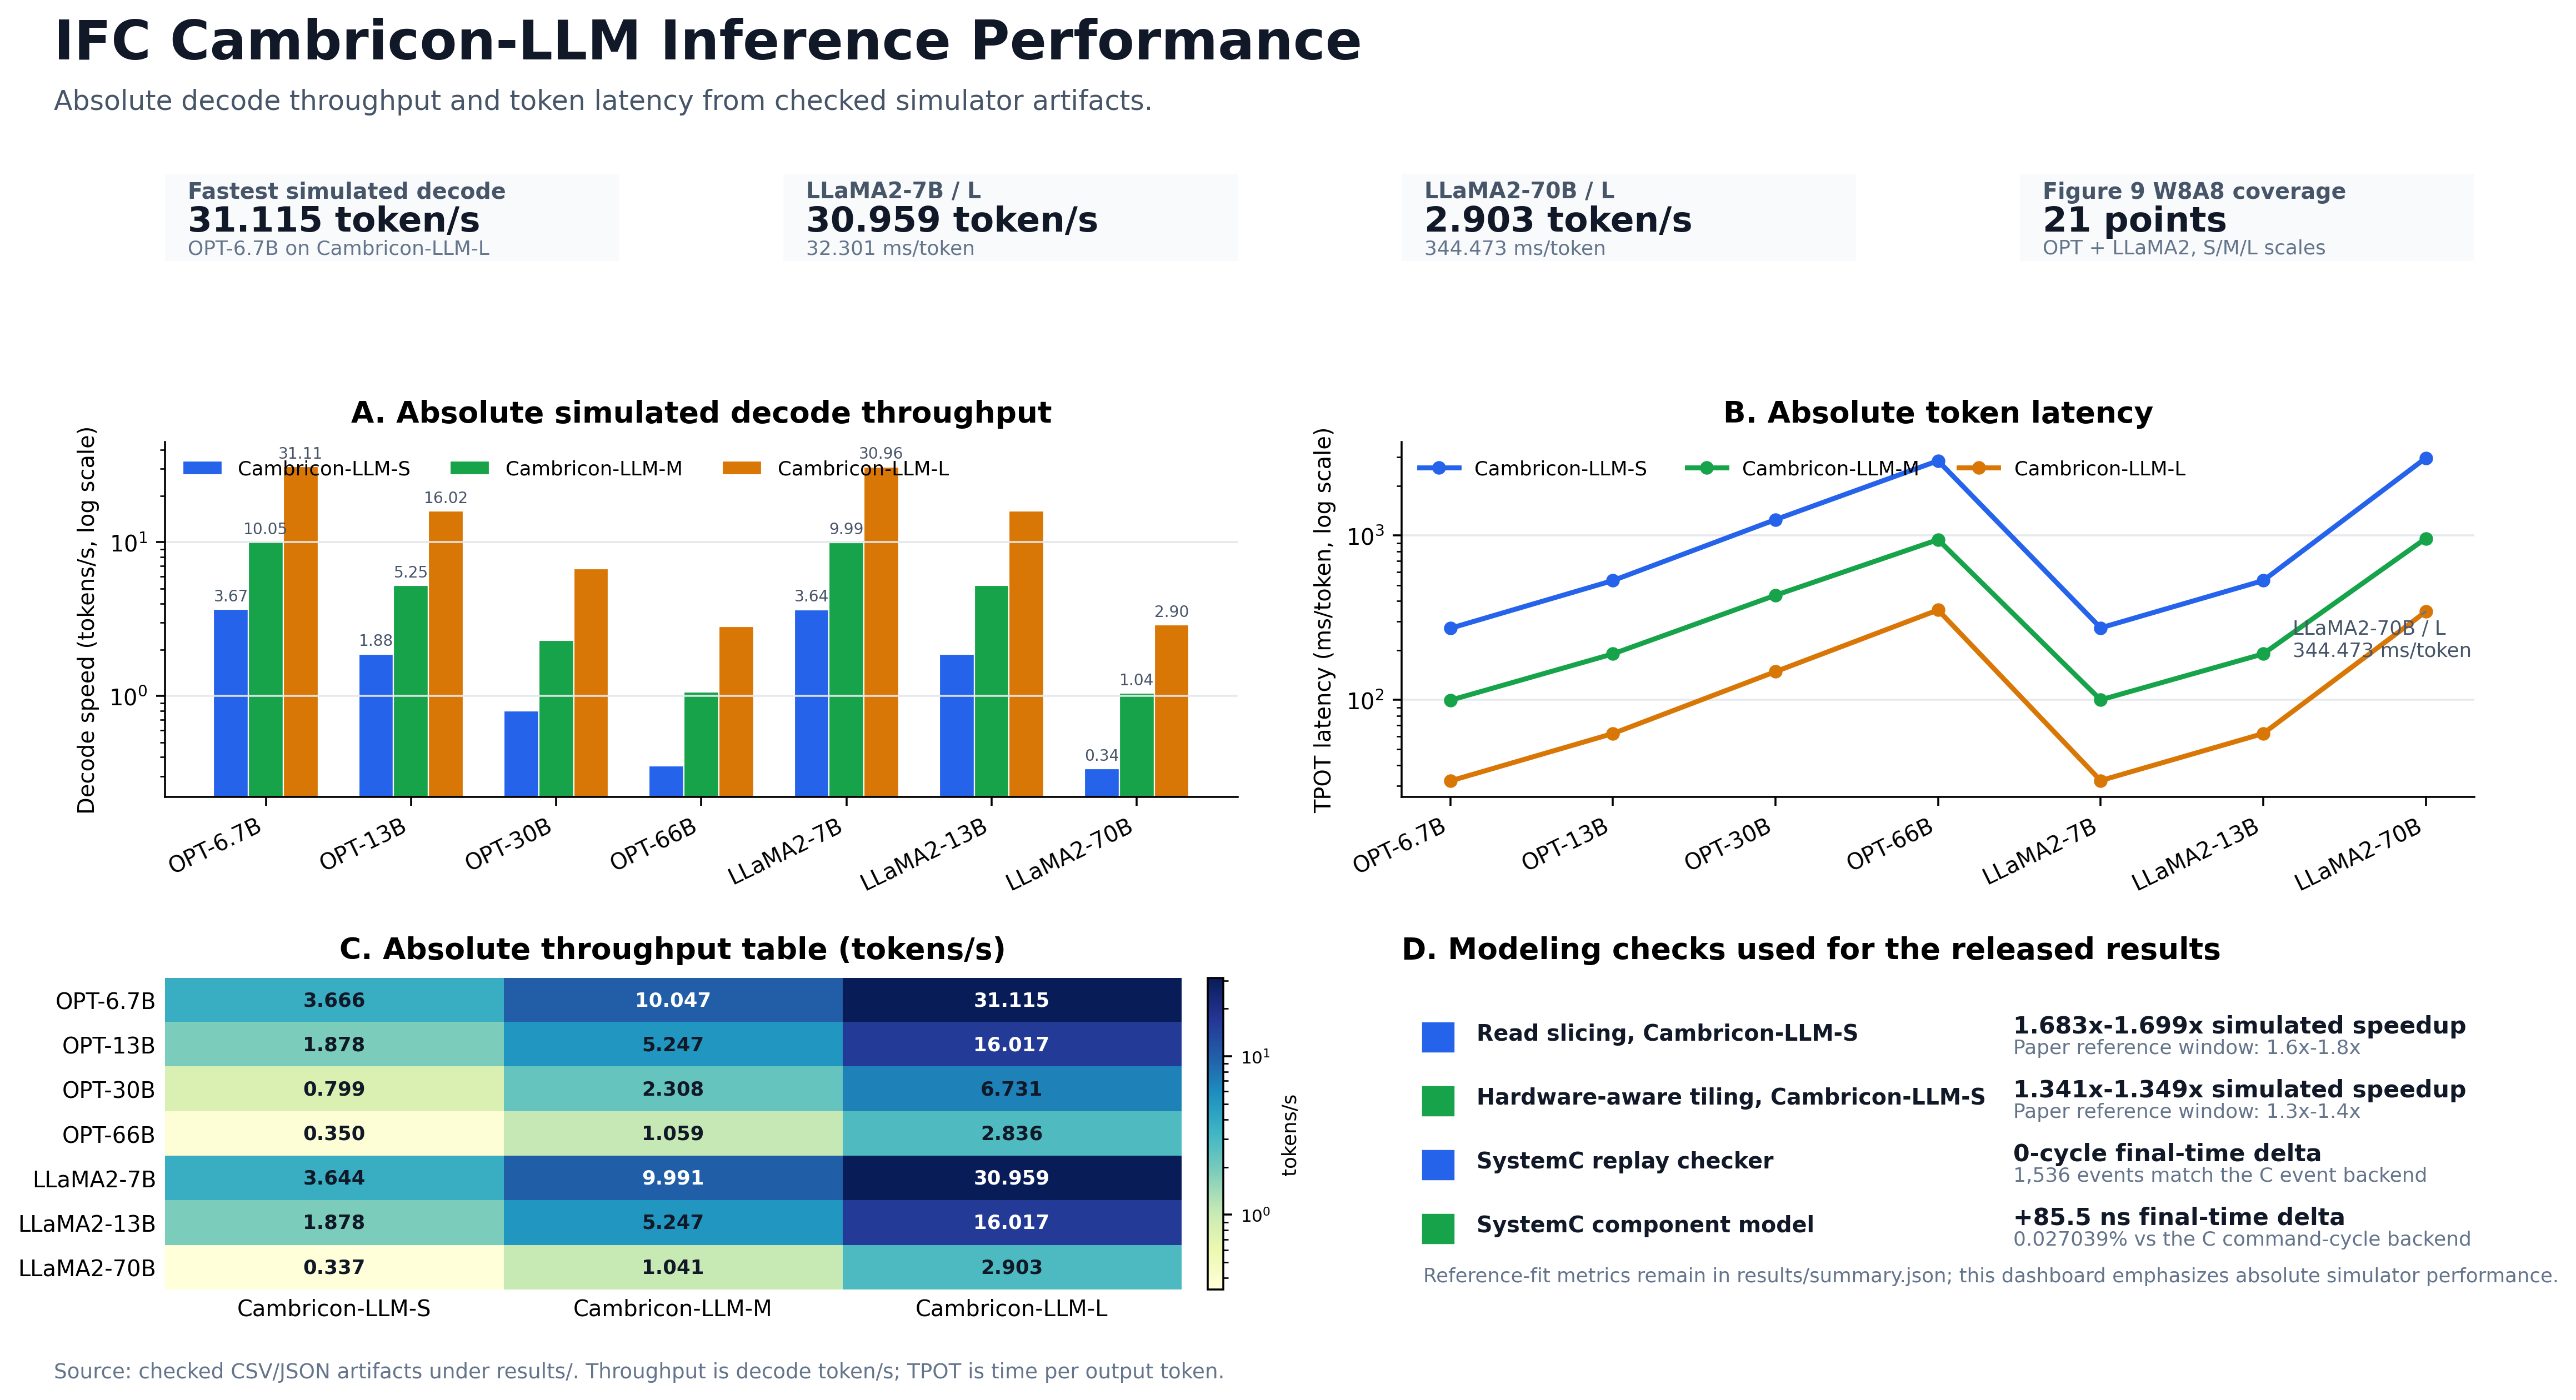
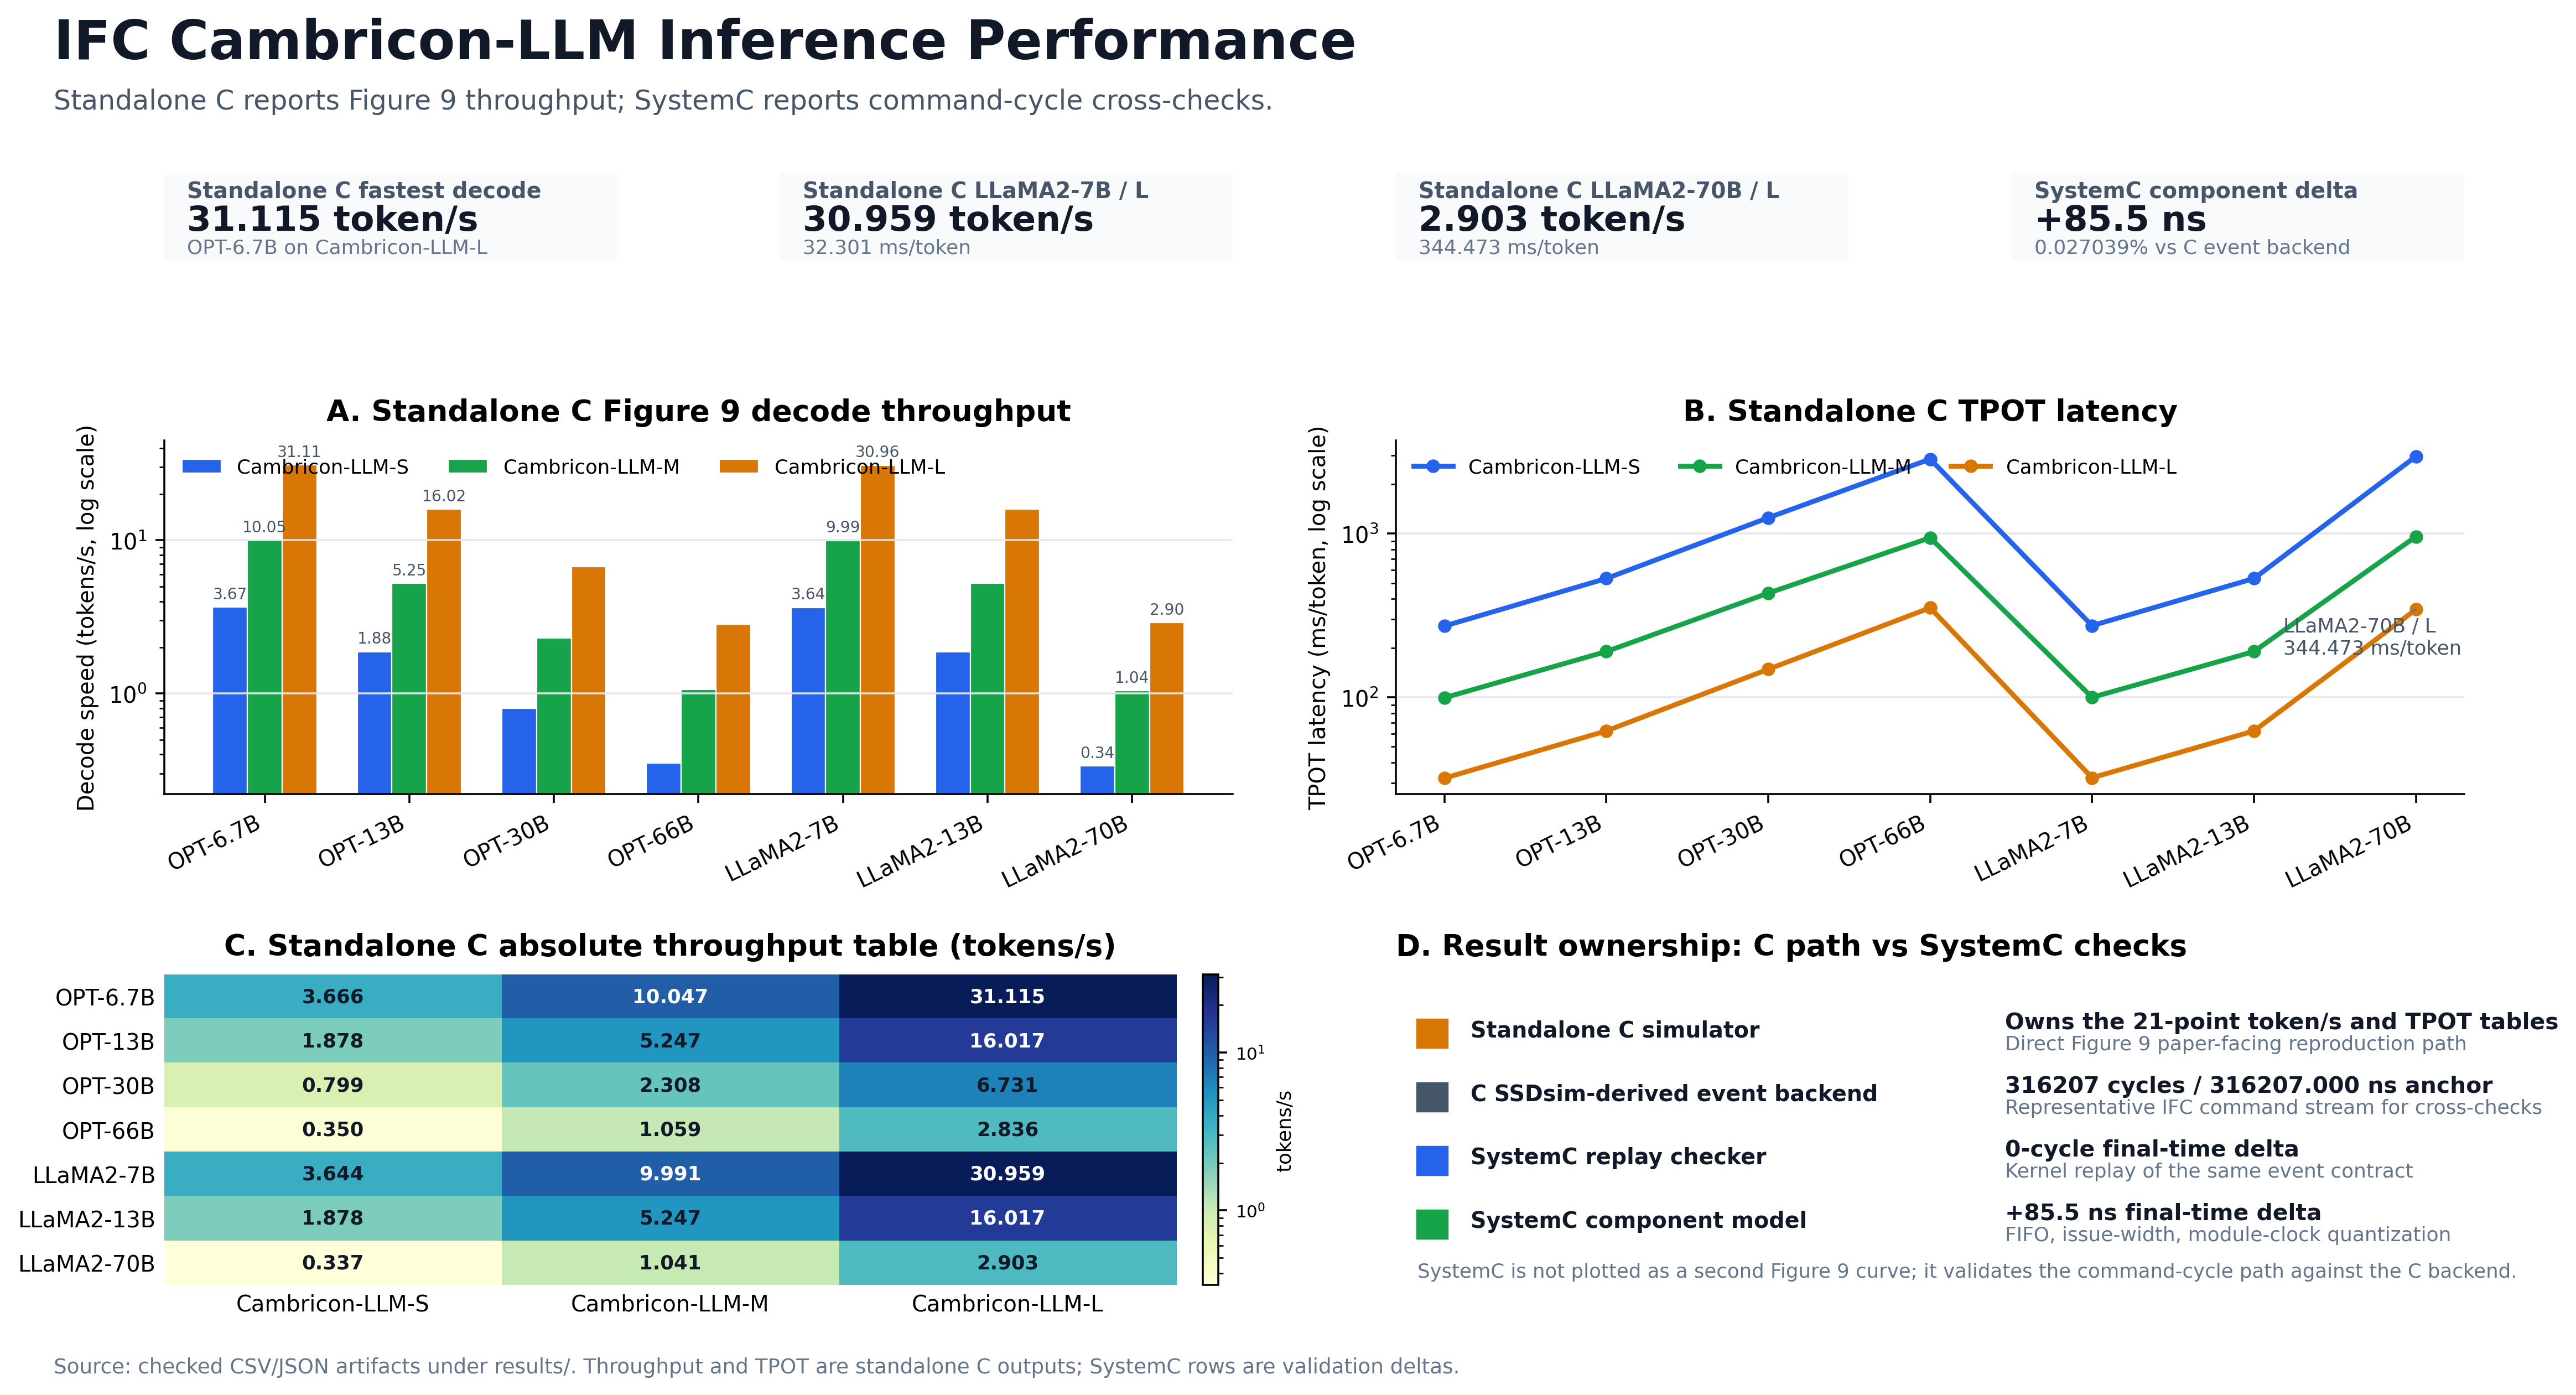
Clarify C and SystemC result ownership

diff --git a/src/simulator.c b/src/simulator.c
@@ -549,13 +549,11 @@ static int write_report(const char *path, const IfcConfig *config, const IfcSimu
     fprintf(file, "- `system_profile.csv` records effective context length, NPU throughput, and DRAM bandwidth.\n");
     fprintf(file, "- `reproduction_checks.csv` records pass/fail checks for row count, error bounds, tile size, ablation ranges, and controller balance.\n");
     fprintf(file, "- READ_SLICE channel intervals are emitted between READ_COMPUTE submissions to model the paper's sliced read behavior. This artifact is a command-level controller audit, not a claim of line-by-line equivalence with the private SSDsim fork used by the paper authors.\n");
-    fprintf(file, "\n## Plots\n\n");
-    fprintf(file, "- `figures/figure9_decode_speed.svg` compares paper Figure 9 decode speed against the C simulator for all 21 points.\n");
-    fprintf(file, "- `figures/figure9_relative_error.svg` shows signed Figure 9 error with +/-15%% reproduction bounds.\n");
-    fprintf(file, "- `figures/platform_error_summary.svg` summarizes mean and max absolute error per platform.\n");
-    fprintf(file, "- `figures/controller_schedule_timeline.svg` visualizes the first configured platform's sample controller schedule.\n");
-    fprintf(file, "- `figures/figure12_read_slice_ablation.svg` plots the first configured platform's read-slicing ablation.\n");
-    fprintf(file, "- `figures/figure14_tiling_ablation.svg` plots the first configured platform's hardware-aware tiling ablation.\n");
+    fprintf(file, "\n## Publication Figures\n\n");
+    fprintf(file, "- Publication-facing PNG/PDF figures are stored under `docs/figures/` in the repository.\n");
+    fprintf(file, "- `performance_results_dashboard.png` and `performance_results_dashboard.pdf` report standalone C throughput/TPOT and SystemC validation deltas.\n");
+    fprintf(file, "- `architecture_summary.png` and `architecture_summary.pdf` summarize the simulator architecture and C/SystemC boundary.\n");
+    fprintf(file, "- The C plot helper may emit raw local plot files under this output directory's `figures/` folder for test inspection; those files are not release artifacts.\n");
     fprintf(file, "\n## Sanity Checks\n\n");
     fprintf(file, "- First configured platform `%s` derives a %.0fx%.0f tile.\n", config->platforms[0].name, first_tile.tile_height, first_tile.tile_width);
     fprintf(file, "- Read-compute workload fraction and channel occupancy are emitted for every model/platform row.\n");

diff --git a/src/main.c b/src/main.c
@@ -131,12 +131,7 @@ int main(int argc, char **argv) {
     printf("tile_profile_csv: %s/tile_profile.csv\n", options.output_dir);
     printf("system_profile_csv: %s/system_profile.csv\n", options.output_dir);
     printf("reproduction_checks_csv: %s/reproduction_checks.csv\n", options.output_dir);
-    printf("figure9_svg: %s/figures/figure9_decode_speed.svg\n", options.output_dir);
-    printf("figure9_error_svg: %s/figures/figure9_relative_error.svg\n", options.output_dir);
-    printf("platform_summary_svg: %s/figures/platform_error_summary.svg\n", options.output_dir);
-    printf("controller_timeline_svg: %s/figures/controller_schedule_timeline.svg\n", options.output_dir);
-    printf("figure12_svg: %s/figures/figure12_read_slice_ablation.svg\n", options.output_dir);
-    printf("figure14_svg: %s/figures/figure14_tiling_ablation.svg\n", options.output_dir);
+    printf("raw_plot_dir: %s/figures (local helper output, ignored for release)\n", options.output_dir);
     printf("rows: %d\n", summary.row_count);
     printf("mean_abs_relative_error_pct: %.3f\n", summary.mean_abs_relative_error_pct);
     printf("max_abs_relative_error_pct: %.3f\n", summary.max_abs_relative_error_pct);

diff --git a/README.md b/README.md
@@ -24,17 +24,27 @@ Reference-fit quality is kept as a secondary audit metric in `results/summary.js
 
 The C simulator is the direct paper-facing Figure 9 reproduction path. The SystemC component model is a command-cycle cross-check for a representative IFC command stream; it is not an independent full Figure 9 simulator and is not RTL.
 
+## Simulator Variants And Result Ownership
+
+| Variant | Command | Result scope | Released result |
+|---|---|---|---|
+| Standalone C timing simulator plus SSDsim-derived C event backend | `make run` | Full 21-point Cambricon-LLM Figure 9 decode-speed reproduction | Owns all token/s and TPOT tables in this README |
+| SystemC replay checker | `make systemc-cycle` | Representative IFC command stream replayed through the SystemC kernel | 0-cycle final-time delta versus the C event backend |
+| SystemC component command-cycle model | `make systemc-component` | Representative IFC command stream split into controller, execution-fabric, FIFO, ONFI, array, and IFC-compute modules | [phone redacted] ns final-time delta, 0.027039%, versus the C event backend |
+
+Read the results this way: the absolute inference-performance numbers are standalone C simulator outputs. The SystemC paths validate the command-cycle behavior and timing stability of the IFC command backend; they are not plotted as a second full Figure 9 throughput curve.
+
 ## Experimental Figures
 
 ![IFC Cambricon-LLM inference performance dashboard](docs/figures/performance_results_dashboard.png)
 
 PDF version: [performance_results_dashboard.pdf](docs/figures/performance_results_dashboard.pdf)
 
-The dashboard summarizes the simulator's absolute decode throughput, TPOT latency, full 21-point throughput table, Cambricon-LLM-S ablation checks, and C/SystemC cross-validation. Detailed source tables are in `results/figure9_reproduction.csv`, `results/figure12_read_slice_ablation.csv`, `results/figure14_tiling_ablation.csv`, and `results/systemc_component_compare.csv`.
+The dashboard summarizes the standalone C simulator's absolute decode throughput, TPOT latency, and full 21-point throughput table, then separates the SystemC replay/component checks as validation deltas. Detailed source tables are in `results/figure9_reproduction.csv`, `results/figure12_read_slice_ablation.csv`, `results/figure14_tiling_ablation.csv`, and `results/systemc_component_compare.csv`.
 
-## Absolute Inference Performance
+## Standalone C Absolute Inference Performance
 
-Decode throughput is reported as simulated tokens/s for one output token at 1K context under the default paper profile.
+Decode throughput is reported as simulated tokens/s from the standalone C paper-facing path for one output token at 1K context under the default paper profile.
 
 | Model | Cambricon-LLM-S | Cambricon-LLM-M | Cambricon-LLM-L |
 |---|---:|---:|---:|
@@ -46,7 +56,7 @@ Decode throughput is reported as simulated tokens/s for one output token at 1K c
 | LLaMA2-13B | 1.878268 | 5.246682 | 16.017008 |
 | LLaMA2-70B | 0.337215 | 1.040646 | 2.902988 |
 
-TPOT latency is reported as simulated ms/token for the same runs.
+TPOT latency is reported as simulated ms/token for the same standalone C runs.
 
 | Model | Cambricon-LLM-S | Cambricon-LLM-M | Cambricon-LLM-L |
 |---|---:|---:|---:|
@@ -127,13 +137,13 @@ If SystemC is not installed system-wide, install a local copy without root privi
 tools/setup_systemc_local.sh
 ```
 
-Run the replay/equivalence checker:
+Run the SystemC replay/equivalence checker:
 
 ```bash
 make systemc-cycle
 ```
 
-Run the component-level command-cycle model:
+Run the SystemC component-level command-cycle model:
 
 ```bash
 make systemc-component

diff --git a/results/report.md b/results/report.md
@@ -56,14 +56,12 @@ This report compares the standalone C IFC simulator against the Cambricon-LLM Fi
 - `reproduction_checks.csv` records pass/fail checks for row count, error bounds, tile size, ablation ranges, and controller balance.
 - READ_SLICE channel intervals are emitted between READ_COMPUTE submissions to model the paper's sliced read behavior. This artifact is a command-level controller audit, not a claim of line-by-line equivalence with the private SSDsim fork used by the paper authors.
 
-## Plots
+## Publication Figures
 
-- `figures/figure9_decode_speed.svg` compares paper Figure 9 decode speed against the C simulator for all 21 points.
-- `figures/figure9_relative_error.svg` shows signed Figure 9 error with +/-15% reproduction bounds.
-- `figures/platform_error_summary.svg` summarizes mean and max absolute error per platform.
-- `figures/controller_schedule_timeline.svg` visualizes the first configured platform's sample controller schedule.
-- `figures/figure12_read_slice_ablation.svg` plots the first configured platform's read-slicing ablation.
-- `figures/figure14_tiling_ablation.svg` plots the first configured platform's hardware-aware tiling ablation.
+- Publication-facing PNG/PDF figures are stored under `docs/figures/` in the repository.
+- `performance_results_dashboard.png` and `performance_results_dashboard.pdf` report standalone C throughput/TPOT and SystemC validation deltas.
+- `architecture_summary.png` and `architecture_summary.pdf` summarize the simulator architecture and C/SystemC boundary.
+- The C plot helper may emit raw local plot files under this output directory's `figures/` folder for test inspection; those files are not release artifacts.
 
 ## Sanity Checks
 

diff --git a/docs/release_summary.md b/docs/release_summary.md
@@ -51,6 +51,16 @@ The per-scheme comparison against the Cambricon-LLM paper result is documented i
 
 Reference entries for the Cambricon-LLM paper, SSDsim-related simulator background, and SystemC are listed in `docs/references.md` and `data/references.bib`.
 
+## Variant Result Ownership
+
+| Variant | Command | Released result ownership |
+|---|---|---|
+| Standalone C timing simulator plus SSDsim-derived C event backend | `make run` | Owns the Figure 9 token/s, TPOT, latency-breakdown, and ablation results. |
+| SystemC replay checker | `make systemc-cycle` | Reports equivalence of a representative IFC event stream against the C event backend. |
+| SystemC component command-cycle model | `make systemc-component` | Reports bounded timing drift of a componentized SystemC command stream against the C event backend. |
+
+Only the standalone C path is a direct paper-facing 21-point throughput reproduction. The SystemC paths are release validation artifacts for the command-cycle backend.
+
 ## C Backend
 
 The C event backend is implemented in `src/ssdsim_ifc.c` and writes:

diff --git a/docs/results.md b/docs/results.md
@@ -8,6 +8,16 @@ make run
 
 The simulator writes a row for each Figure 9 model/platform point. The main output is absolute decode performance: simulated tokens/s and TPOT latency for each model on Cambricon-LLM-S/M/L.
 
+## Result Ownership
+
+| Variant | Main artifacts | Result meaning |
+|---|---|---|
+| Standalone C timing simulator plus SSDsim-derived C event backend | `results/figure9_reproduction.csv`, `results/latency_breakdown.csv`, `results/npu_timing.csv` | Owns the released 21-point token/s and TPOT performance numbers. |
+| SystemC replay checker | `results/systemc_cycle_compare.csv` | Checks that the representative C event stream replays with 0-cycle final-time delta through the SystemC kernel. |
+| SystemC component command-cycle model | `results/systemc_component_compare.csv`, `results/systemc_component_modules.csv`, `results/systemc_component.vcd` | Checks the same representative command stream after SystemC module decomposition; final-time delta is bounded rather than expected to be exactly zero. |
+
+The SystemC paths are validation paths for command-cycle behavior. They should not be read as separate full Figure 9 throughput curves.
+
 Current checked output:
 
 | Metric | Value |

diff --git a/docs/paper_comparison.md b/docs/paper_comparison.md
@@ -11,6 +11,8 @@ This document separates the paper-facing comparison for the two simulator scheme
 
 The SystemC replay checker is an equivalence checker, not a third independent simulator scheme. Its exact agreement with the C backend is expected by construction.
 
+The published performance tables should therefore be attributed to the C timing simulator. SystemC results should be cited as cross-check evidence for the representative IFC command stream, not as independent throughput predictions.
+
 ## Scheme 1: C Timing And SSDsim-Derived Event Backend
 
 This is the direct Figure 9 reproduction path. The paper reference values are the `reference_tokens_per_s` values in `results/figure9_reproduction.csv`; the simulator output is `simulated_tokens_per_s`.